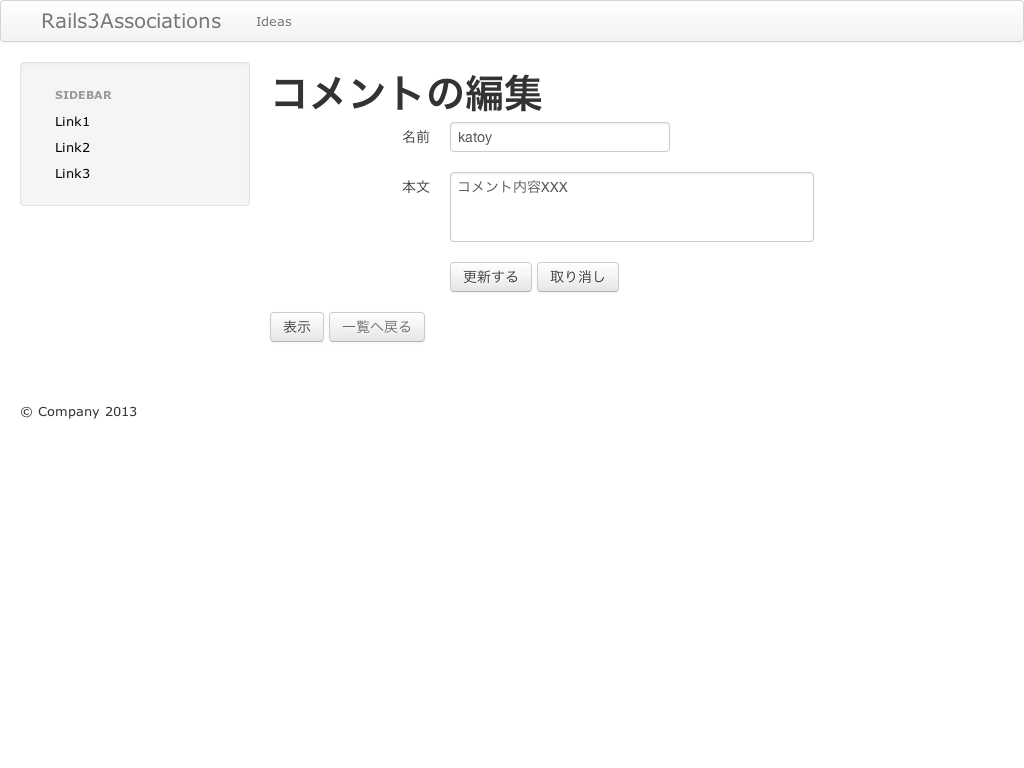
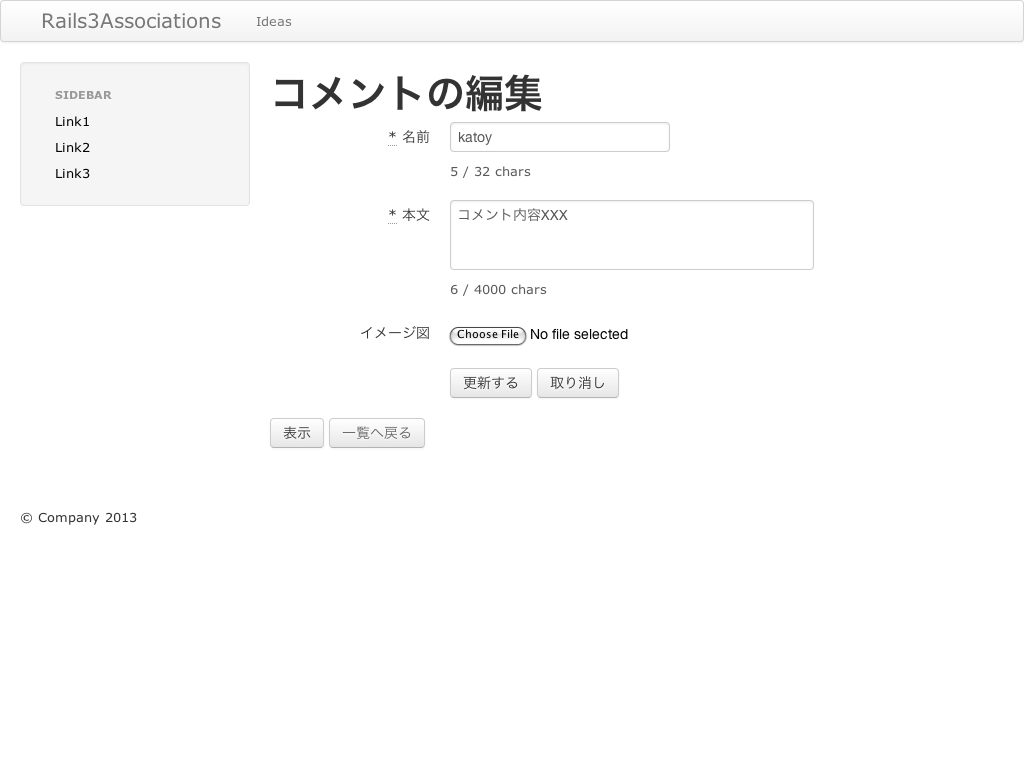
Add for input-text counter

diff --git a/app/assets/stylesheets/application.css b/app/assets/stylesheets/application.css
@@ -17,3 +17,4 @@ body { padding-top: 0; }
 footer { margin-top: 60px; }
 table, td, th { vertical-align: middle !important; border: none !important; }
 th { border-bottom: 1px solid #DDD !important; }
+

diff --git a/app/assets/stylesheets/bootstrap_and_overrides.css.less b/app/assets/stylesheets/bootstrap_and_overrides.css.less
@@ -28,3 +28,8 @@
 //
 // Example:
 // @linkColor: #ff0000;
+
+.modal-backdrop,
+.modal-backdrop.fade.in {
+  opacity: 0.4;
+}

diff --git a/db/schema.rb b/db/schema.rb
@@ -14,30 +14,35 @@
 ActiveRecord::Schema.define(:version => 20130722133736) do
 
   create_table "comments", :force => true do |t|
-    t.string   "user_name"
-    t.text     "body"
-    t.integer  "idea_id",    :null => false
-    t.datetime "created_at", :null => false
-    t.datetime "updated_at", :null => false
+    t.string   "user_name",    :limit => 32
+    t.text     "body",         :limit => 4000
+    t.string   "picture"
+    t.integer  "idea_id",                                     :null => false
+    t.datetime "created_at",                                  :null => false
+    t.datetime "updated_at",                                  :null => false
+    t.integer  "lock_version",                 :default => 0
   end
 
   add_index "comments", ["idea_id"], :name => "index_comments_on_idea_id"
 
   create_table "ideas", :force => true do |t|
-    t.string   "name"
-    t.text     "description"
+    t.string   "name",           :limit => 32
+    t.text     "description",    :limit => 4000
     t.string   "picture"
-    t.datetime "created_at",  :null => false
-    t.datetime "updated_at",  :null => false
+    t.integer  "comments_count",                 :default => 0
+    t.datetime "created_at",                                    :null => false
+    t.datetime "updated_at",                                    :null => false
+    t.integer  "lock_version",                   :default => 0
   end
 
   add_index "ideas", ["name"], :name => "index_ideas_on_name", :unique => true
 
   create_table "infos", :force => true do |t|
-    t.string   "writer",     :null => false
-    t.integer  "idea_id",    :null => false
-    t.datetime "created_at", :null => false
-    t.datetime "updated_at", :null => false
+    t.string   "writer",       :limit => 32,                :null => false
+    t.integer  "idea_id",                                   :null => false
+    t.datetime "created_at",                                :null => false
+    t.datetime "updated_at",                                :null => false
+    t.integer  "lock_version",               :default => 0
   end
 
   create_table "pictures", :force => true do |t|

diff --git a/test/functional/comments_controller_test.rb b/test/functional/comments_controller_test.rb
@@ -11,16 +11,16 @@ class CommentsControllerTest < ActionController::TestCase
     assert_not_nil assigns(:comments)
   end
 
-  #test "should get new" do
-  #  get :new
-  #  assert_response :success
-  #end
+  test "should get new" do
+    get :new
+    assert_response :success
+  end
 
   test "should create comment" do
     assert_difference('Comment.count') do
-      post :create, comment: { body: @comment.body, user_name: @comment.user_name, idea_id: @comment.idea_id }
+      post :create, comment: { body: @comment.body, user_name: "xxxx", idea_id: @comment.idea_id }
     end
-
+  
     assert_redirected_to comment_path(assigns(:comment))
   end
 
@@ -35,8 +35,10 @@ class CommentsControllerTest < ActionController::TestCase
   end
 
   test "should update comment" do
-    put :update, id: @comment, comment: { body: @comment.body, user_name: @comment.user_name }
+    put :update, id: @comment, comment: { body: @comment.body, user_name: "xxxxx" }
+
     assert_redirected_to comment_path(assigns(:comment))
+    assert_equal "xxxxx", Comment.find_by_id(@comment).user_name
   end
 
   test "should destroy comment" do

diff --git a/test/unit/idea_test.rb b/test/unit/idea_test.rb
@@ -84,8 +84,8 @@ class IdeaTest < ActiveSupport::TestCase
     assert @idea.errors[:name].any?
   end
 
-  test "Idea.name = '12345678901' is invalid" do
-    @idea.name = "12345678901"
+  test "Idea.name = '1234567890123456789012345678901234567890' is invalid" do
+    @idea.name = "1234567890123456789012345678901234567890"
     assert @idea.invalid?
     assert @idea.errors[:name].any?
   end
@@ -120,8 +120,8 @@ class IdeaTest < ActiveSupport::TestCase
   end
 
   test "can read polymorphic" do
-   assert_equal @idea.pictures.size, 1
-   assert_equal @idea.pictures[0].name, "picture_1"
+   ### assert_equal @idea.pictures.size, 1
+   ### assert_equal @idea.pictures[0].name, "picture_1"
 
    p = Picture.first
    assert_equal p.imageable_type, 'Comment'

diff --git a/app/models/idea.rb b/app/models/idea.rb
@@ -1,5 +1,5 @@
-class Idea < ActiveRecord::Base
-  attr_accessible :description, :name, :picture
+class Idea < MyBaseRecord
+  attr_accessible :description, :name, :picture, :lock_version
 
   mount_uploader :picture, PictureUploader
 
@@ -15,6 +15,7 @@ class Idea < ActiveRecord::Base
 
   has_many :pictures, as: :imageable
 
-  validates :name, length: (4..10), uniqueness: true
+  validates :name,        length: (4..32), uniqueness: true
+  validates :description, length: (1..4000)
   validates_associated :info
 end

diff --git a/app/models/comment.rb b/app/models/comment.rb
@@ -1,6 +1,12 @@
-class Comment < ActiveRecord::Base
-  belongs_to :idea, inverse_of: :comments
+class Comment < MyBaseRecord
+  attr_accessible :body, :user_name, :picture, :idea_id, :lock_version
+
+  mount_uploader :picture, PictureUploader
+
+  belongs_to :idea, inverse_of: :comments, :counter_cache => true
   has_many :pictures, as: :imageable
 
-  attr_accessible :body, :user_name, :idea_id
+  validates :user_name,  length: (4..32), uniqueness: true
+  validates :body,       length: (1..4000)
+
 end

diff --git a/db/migrate/20130721130908_create_ideas.rb b/db/migrate/20130721130908_create_ideas.rb
@@ -1,11 +1,13 @@
 class CreateIdeas < ActiveRecord::Migration
   def change
     create_table :ideas do |t|
-      t.string :name
-      t.text :description
+      t.string :name,      :limit => 32
+      t.text :description, :limit => 4000
       t.string :picture
+      t.integer :comments_count, :default => 0
 
       t.timestamps
+      t.integer :lock_version, :default => 0
     end
     add_index :ideas, :name, unique: true
   end

diff --git a/db/migrate/20130721133546_create_comments.rb b/db/migrate/20130721133546_create_comments.rb
@@ -1,11 +1,13 @@
 class CreateComments < ActiveRecord::Migration
   def change
     create_table :comments do |t|
-      t.string :user_name
-      t.text :body
+      t.string :user_name, :limit => 32
+      t.text :body,        :limit => 4000
+      t.string :picture
       t.references :idea, index: true, null: false
 
       t.timestamps
+      t.integer:lock_version, :default => 0
     end
     add_index :comments, :idea_id
   end

diff --git a/db/migrate/20130721133735_create_infos.rb b/db/migrate/20130721133735_create_infos.rb
@@ -1,10 +1,11 @@
 class CreateInfos < ActiveRecord::Migration
   def change
     create_table :infos do |t|
-      t.string :writer, index: true, null: false
+      t.string :writer, index: true, null: false, :limit => 32
       t.references :idea, index: true, null: false
 
       t.timestamps
+      t.integer:lock_version, :default => 0
     end
   end
 end

diff --git a/app/models/info.rb b/app/models/info.rb
@@ -1,4 +1,4 @@
-class Info < ActiveRecord::Base
+class Info < MyBaseRecord
   belongs_to :idea, inverse_of: :info
   attr_accessible :idea, :writer, :idea_id
 

diff --git a/app/helpers/application_helper.rb b/app/helpers/application_helper.rb
@@ -1,2 +1,6 @@
 module ApplicationHelper
+
+  def hbr(str)
+    h(str).gsub(' ', '&nbsp;').gsub(/(\r\n?)|(\n)/, '<br/>').html_safe
+  end
 end
